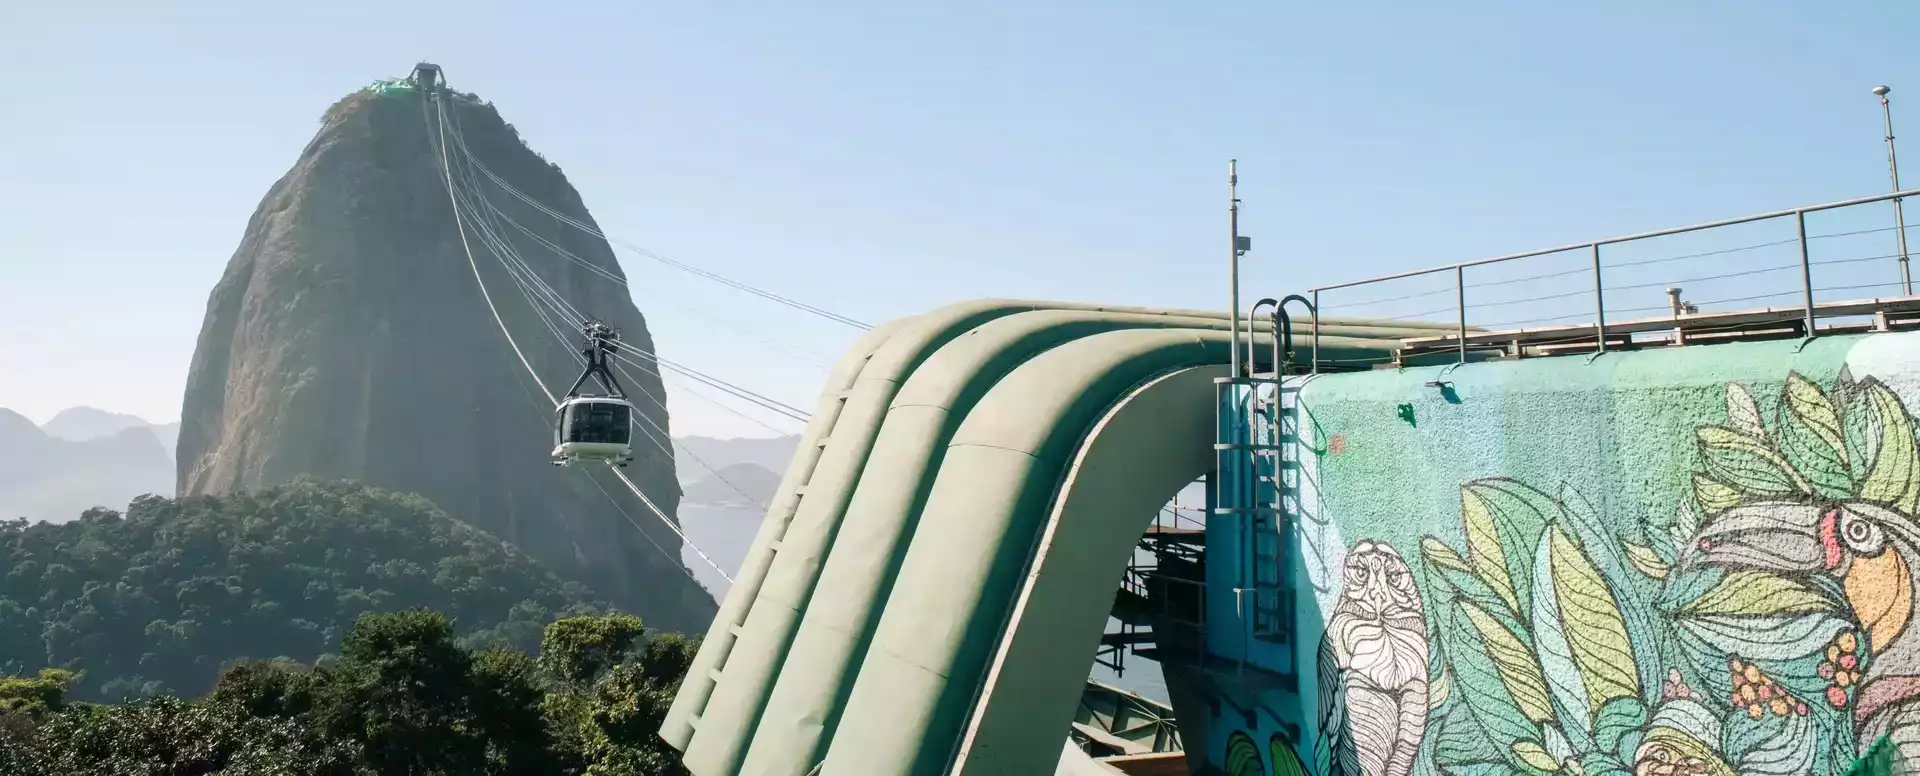
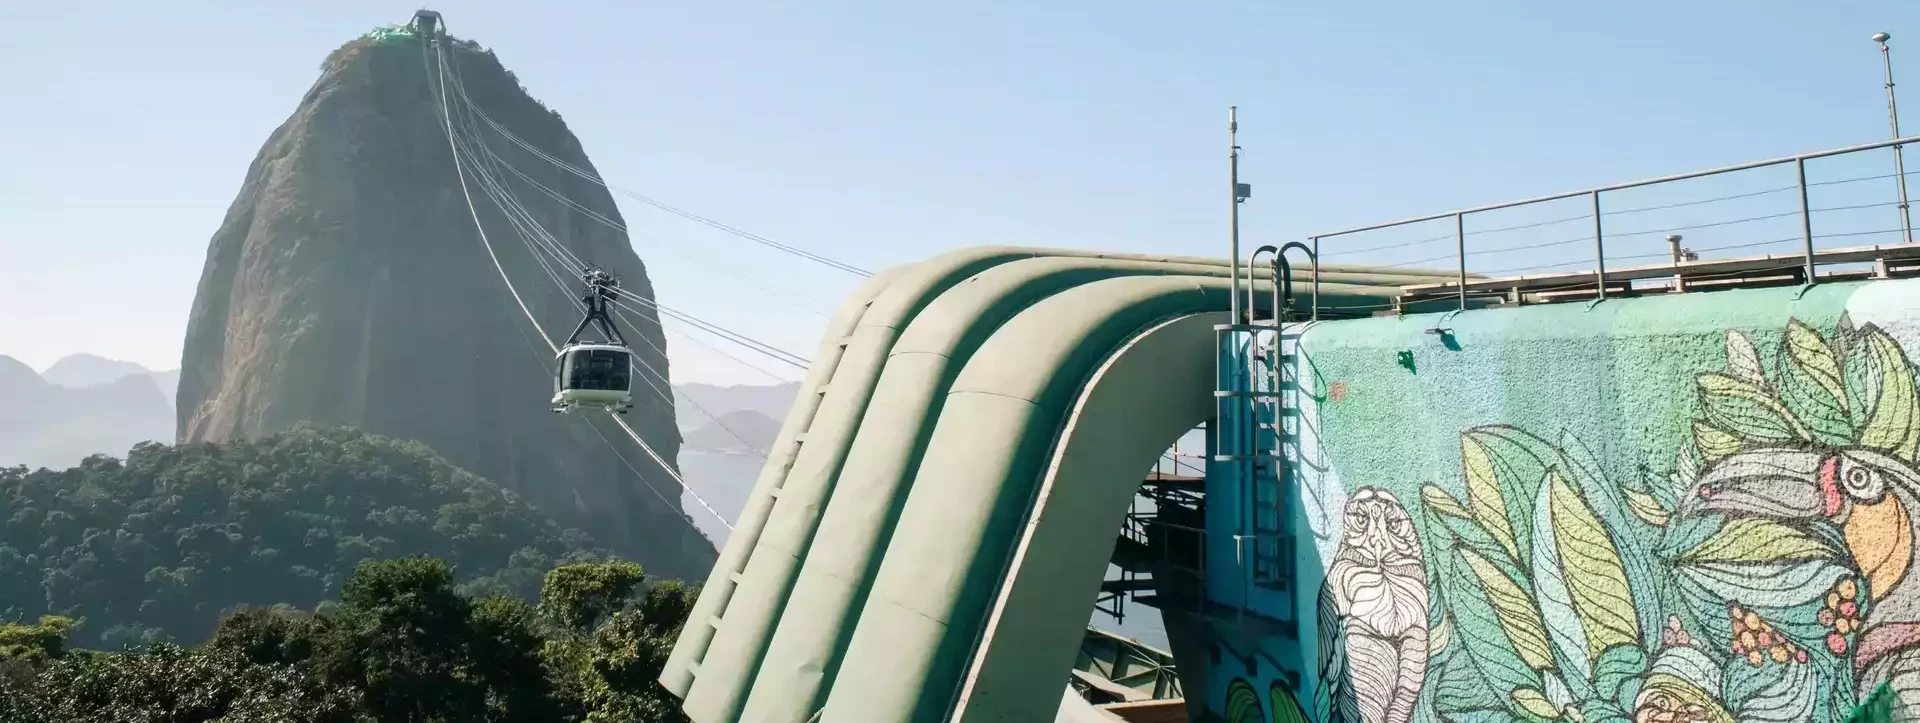
deleted:    images/hero-rio-de-janeiro-sugarloaf-large.jpg 	modified:   images/hero-rio-de-janeiro-sugarloaf-large.webp 	modified:   images/hero-rio-de-janeiro-sugarloaf-medium.webp 	modified:   place.html 	modified:   styles/place.css

diff --git a/place.html b/place.html
@@ -21,14 +21,12 @@
     <main>
         <div class="hero">
             <picture>
-                <source srcset = "images/hero-rio-de-janeiro-sugarloaf-large.webp" media = "(min-width: 1500px)" >
+                <source srcset = "images/hero-rio-de-janeiro-sugarloaf-large.webp" media = "(min-width: 1200px)" >
                 <source srcset = "images/hero-rio-de-janeiro-sugarloaf-medium.webp" media = "(min-width: 600px)" >
                 <source srcset = "images/hero-rio-de-janeiro-sugarloaf-small.webp" media = "(min-width: 400px)" >
                 <img src="images/hero-rio-de-janeiro-sugarloaf-small.webp" alt="Sugar Loaf Rio de Janeiro" width="400" height="267">
             </picture>
         </div>
-        
-
     </main>
     <footer class="f-container">
         <p>

diff --git a/styles/place.css b/styles/place.css
@@ -23,13 +23,15 @@
     color: white;
 }
 
+.hero{
+    background-color: var(--brazilian-flag-yellow-color);
+    padding-bottom: 15px;
+}
 
 .hero img {
     width: 100%;
     height: auto;
 }
-
-
 
 /* Styling the footer section */
 .f-container{
@@ -37,11 +39,10 @@
     flex-direction: column;
     justify-content: center;
     align-items: center;
-    gap: 5px;
+    gap: 20px;
     background-color: var(--brazilian-flag-green-color);
     color: white;
     height: 90px;
-    padding: 20px;
 }
 .f-container p{
     font-size: small;
